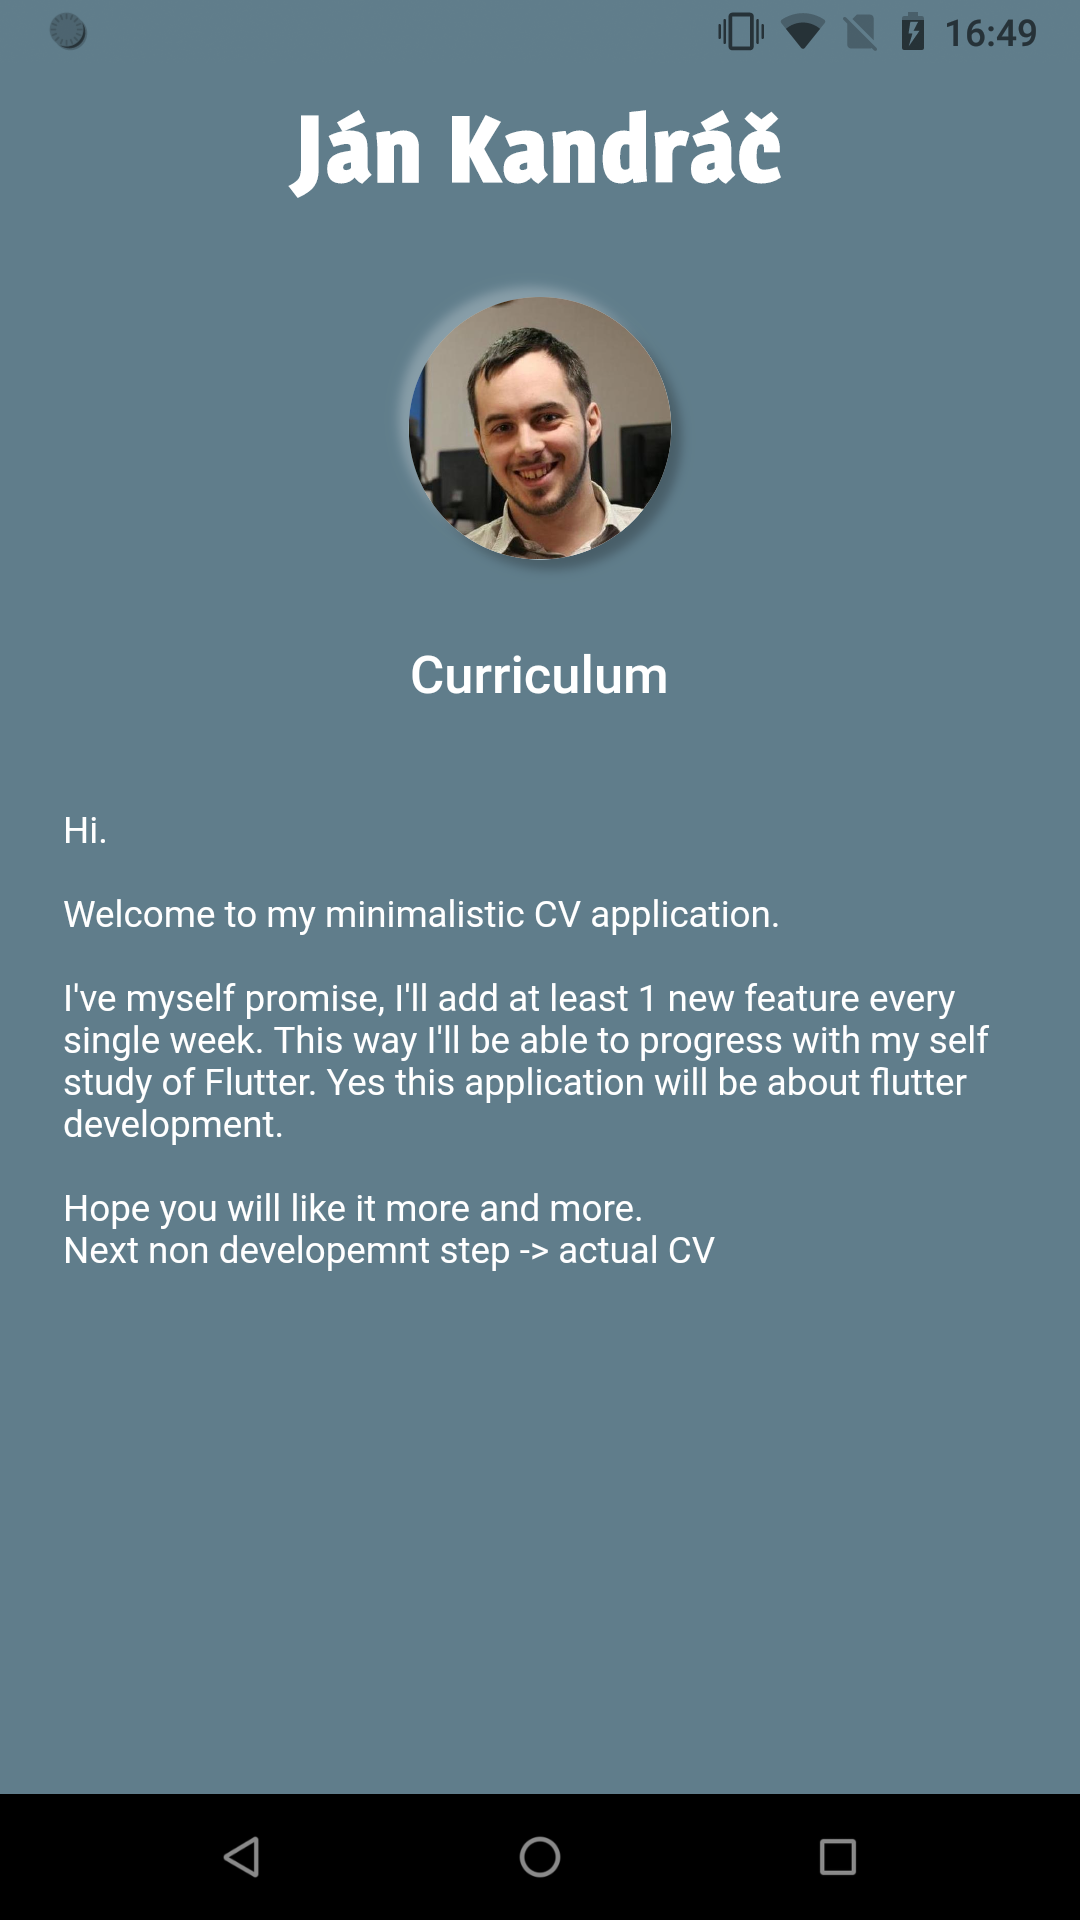
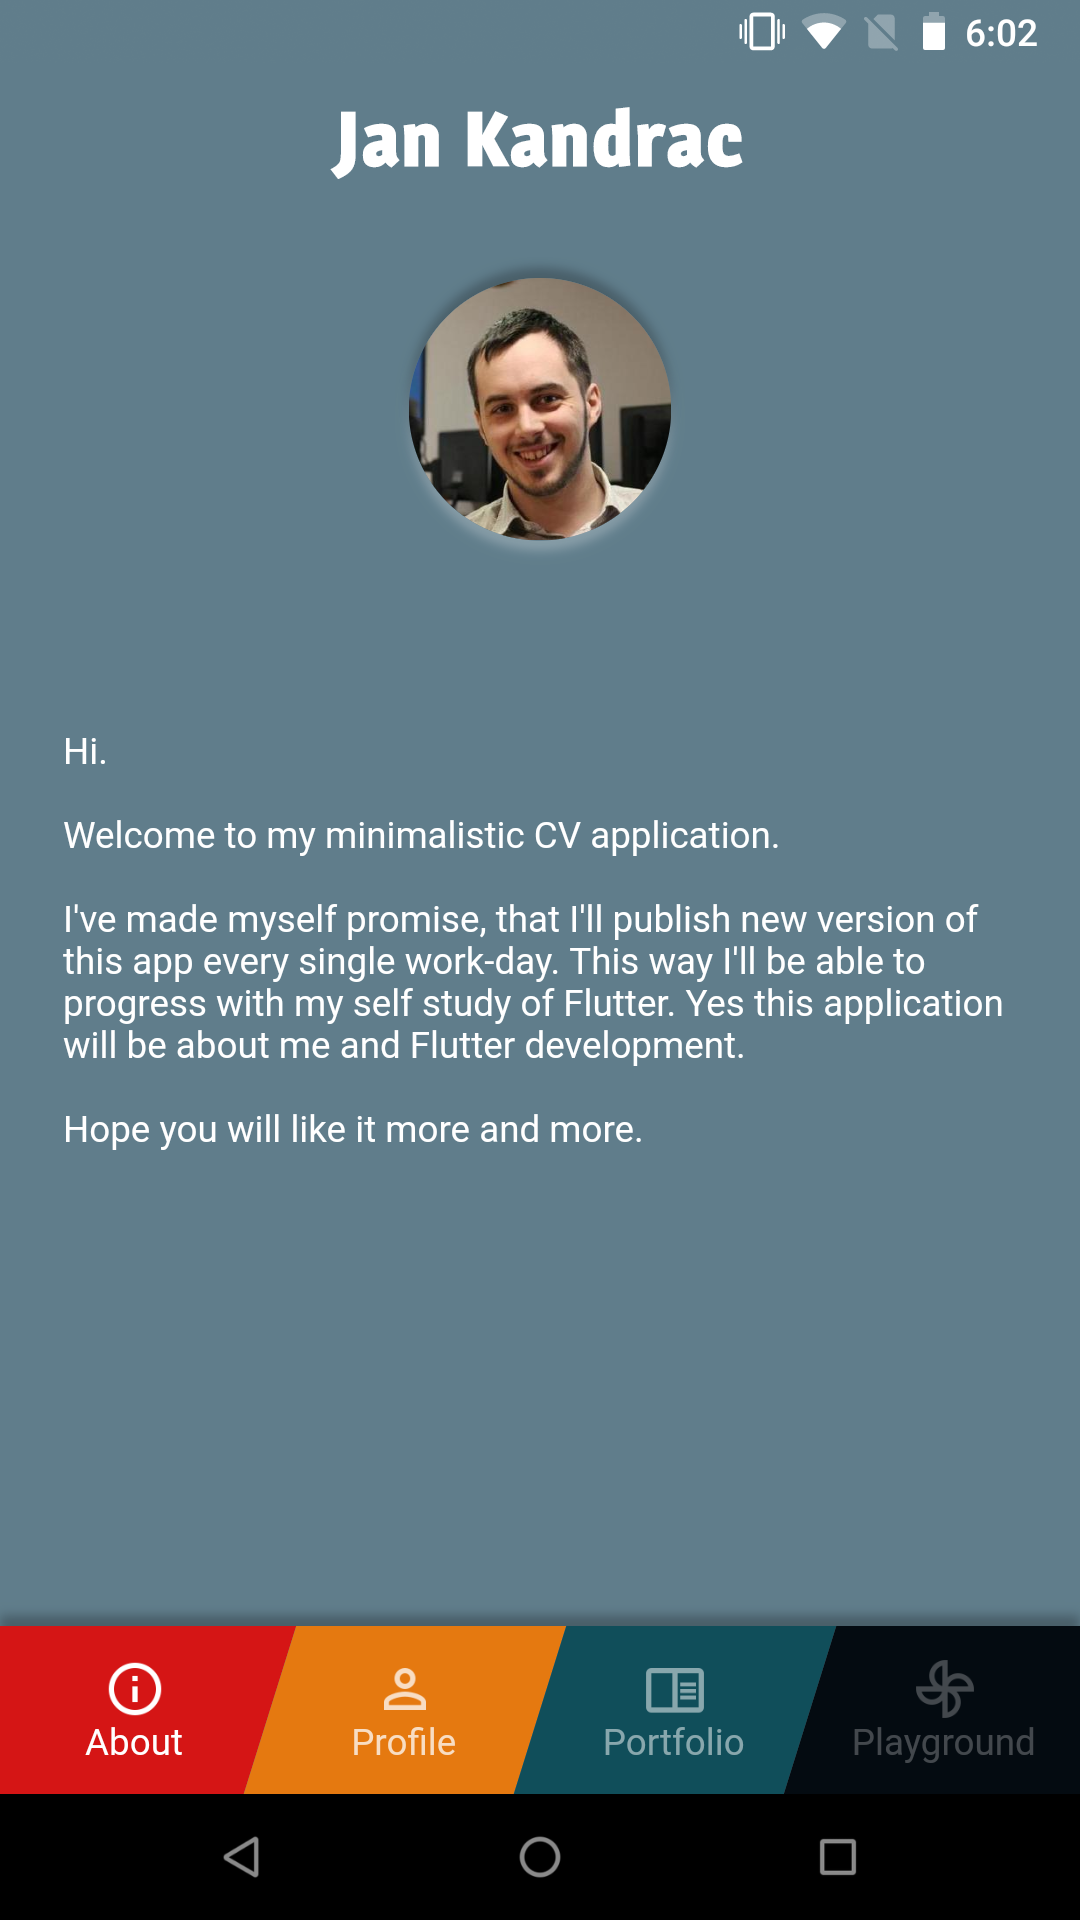
Updated readme images

diff --git a/README.md b/README.md
@@ -10,9 +10,9 @@ also find links to files meant for "skill presentation purposes" here.
 
 ## Screens
 
-|                                                                       |                                                                           |
-|-----------------------------------------------------------------------|---------------------------------------------------------------------------|
-|<img src="./presentation/001-splash.png" alt="alt text" width="200">   |   <img src="./presentation/002-landing.png" alt="alt text" width="200">   |
+|                                                                       |                                                                        |                                                                           |
+|-----------------------------------------------------------------------|------------------------------------------------------------------------|---------------------------------------------------------------------------|
+|<img src="./presentation/001-splash.png" alt="alt text" width="200">   |<img src="./presentation/002-landing.png" alt="alt text" width="200">   |<img src="./presentation/003-portfolio.png" alt="alt text" width="200">    |
 
 
 ## Used technologies and libraries (so far)
